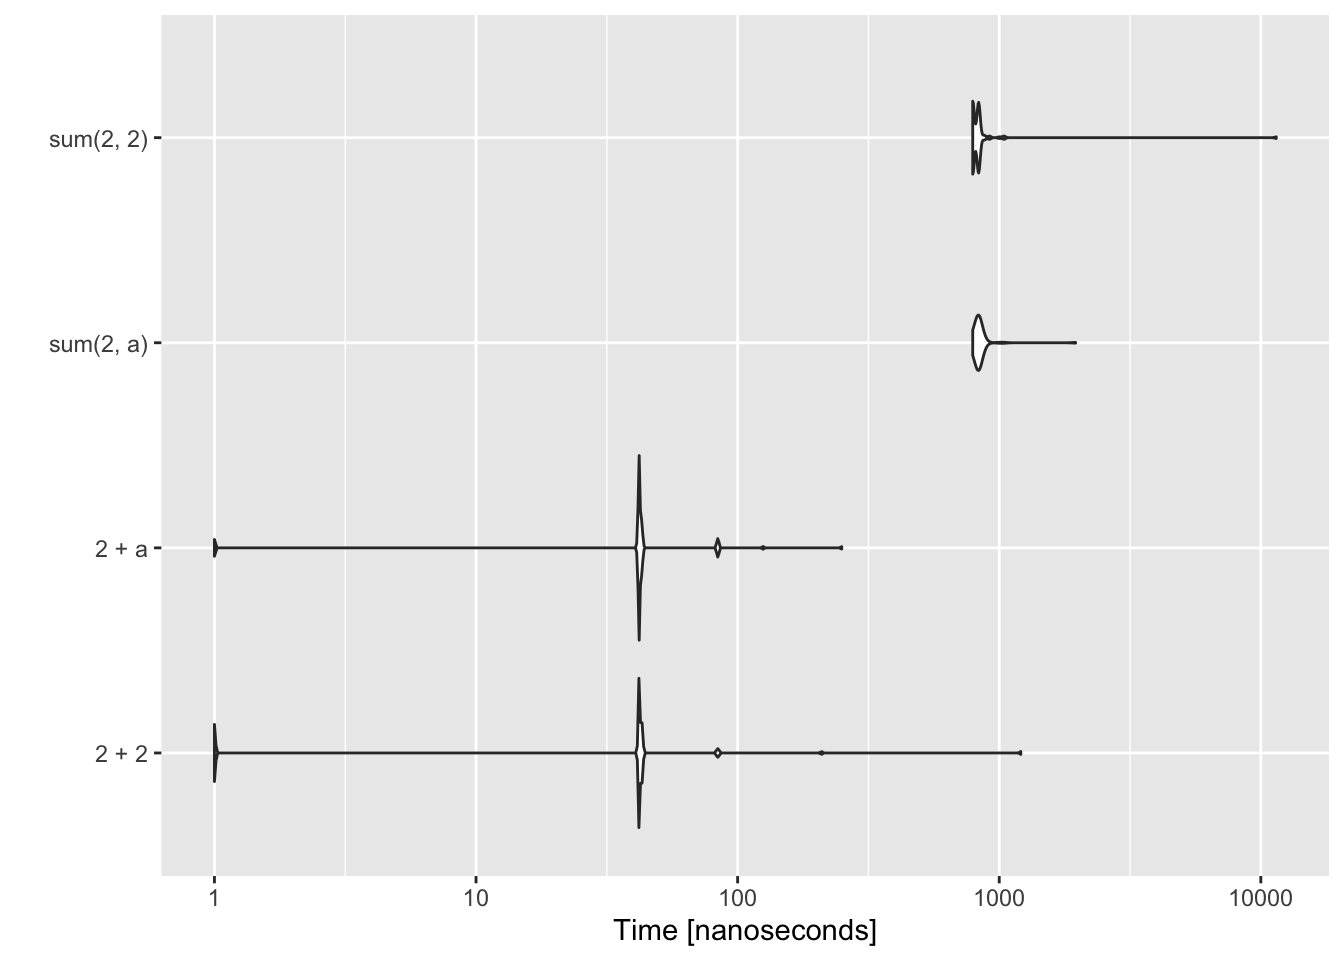
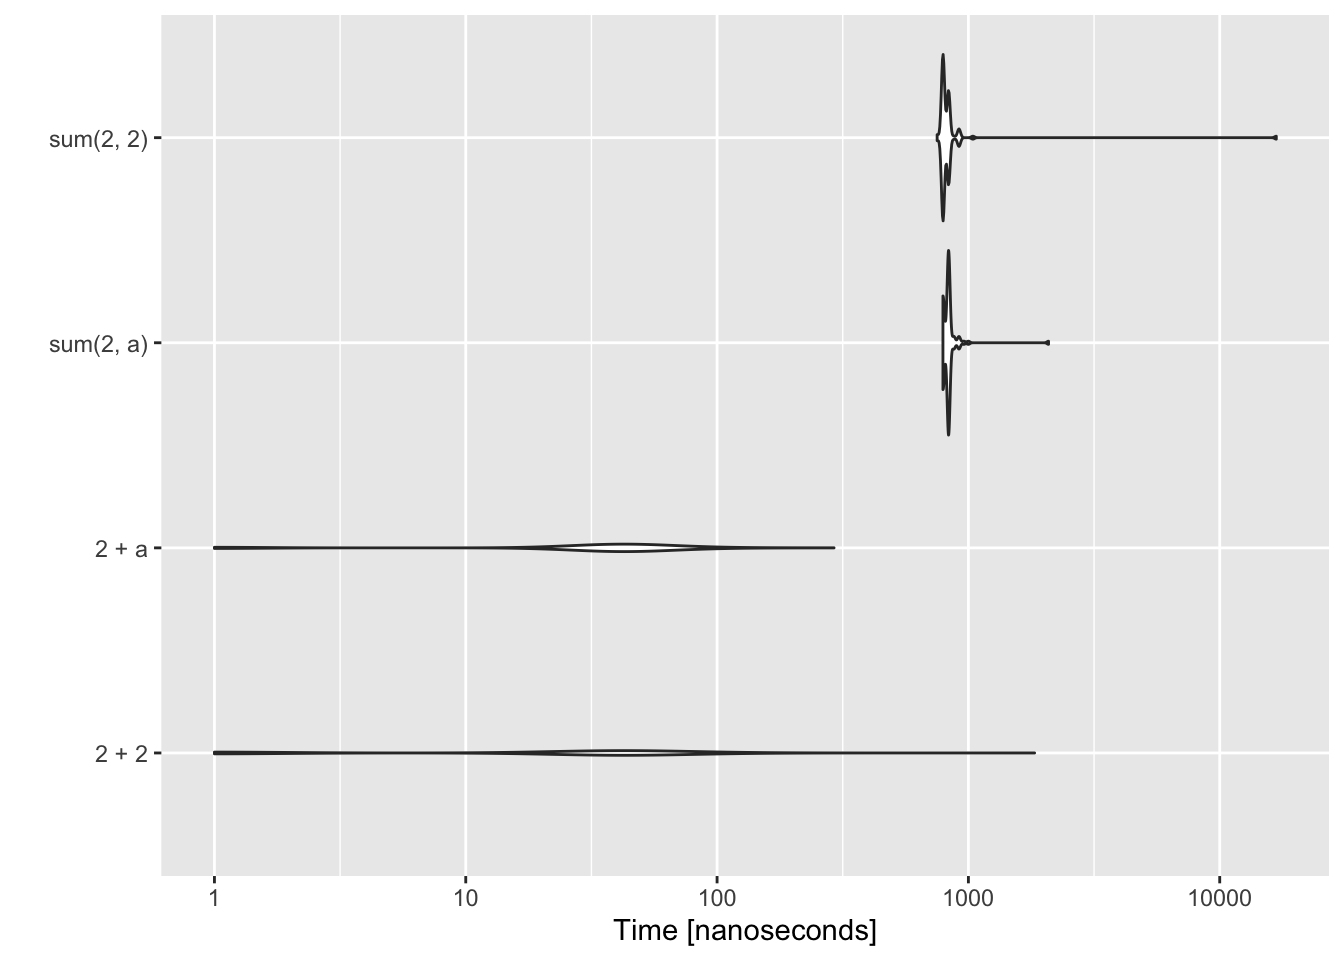
some more marss workflow

diff --git a/git-part2.html b/git-part2.html
@@ -446,10 +446,8 @@ Robust
 <ul>
 <li>How to use issues.</li>
 <li>How to use releases.</li>
+<li>A production workflow (what I do).</li>
 <li>How to use organizations—for yourself or a team.</li>
-</ul>
-<p>Getting started collaborating using Git and GitHub</p>
-<ul>
 <li>How to set things up in your shared repository in order to work as a small team.</li>
 </ul>
 </div>
@@ -482,24 +480,27 @@ Robust
 <pre><code>git switch -</code></pre>
 <p><strong>Warning <code>git checkout ...</code> will change all your time stamps.</strong></p>
 </div>
+<div id="my-production-workflows" class="section level2">
+<h2>My production workflows</h2>
+<p><a href="https://atsa-es.github.io/MARSS/">MARSS R package</a></p>
+<p>I develop on the main branch as long as I can break work into small tasks. The versions that users use are either CRAN releases or GitHub releases. I warn them that the main branch is a development branch and might be broken.</p>
+<div id="workflow-with-small-tasks" class="section level3">
+<h3>Workflow with small tasks</h3>
+<p><img src="images/marss-workflow-1.png" /></p>
+</div>
+<div id="workflow-when-i-might-break-things" class="section level3">
+<h3>Workflow when I might break things</h3>
+<p>A major re-organization or new functionality that has the potential to break things is done on a branch.</p>
+<p><img src="images/marss-workflow-2.png" /></p>
+</div>
+</div>
 <div id="organizations" class="section level2">
 <h2>Organizations</h2>
-<p>I use this to organize collections of repositories.</p>
+<p>I use this to organize collections of repositories. Example: <a href="https://github.com/eeholmes" class="uri">https://github.com/eeholmes</a></p>
 <ul>
 <li>Share access to repos across a team</li>
 <li>Have team discussions</li>
 <li>Have a organization landing page</li>
-</ul>
-</div>
-<div id="github-pages" class="section level2">
-<h2>GitHub Pages</h2>
-<p>Make a simple landing page of your repository.</p>
-</div>
-<div id="complex-examples" class="section level2">
-<h2>Complex Examples</h2>
-<ul>
-<li><p><a href="https://collegescorecard.ed.gov/">College Scorecard</a> This is not a bespoke website. It is a Jekyll site being generated from GitHub. All the data driving the College Scorescard is available on the GitHub repository maintained by the Department of Education.</p></li>
-<li><p><a href="https://nmfs-fish-tools.github.io/">NMFS Fish Tools</a> Here is an example of one of the tools: <a href="https://nmfs-fish-tools.github.io/r4MAS/index.html">r4MAS</a>. Again this is not a bespoke website. In this case, r4MASS is an R package and a tool called pkgdown was used to create this site which GitHub shows as webpage in your browser.</p></li>
 </ul>
 </div>
 <div id="pro-tip-using-github-actions" class="section level2">

diff --git a/week8-adv-packages.html b/week8-adv-packages.html
@@ -639,9 +639,9 @@ for(i in 1:10000){ b &lt;- t(a)%*%a }
 Rprof()
 summaryRprof(tmp)$by.self</code></pre>
 <pre><code>##                   self.time self.pct total.time total.pct
-## &quot;%*%&quot;                  0.54    93.10       0.54     93.10
-## &quot;lazyLoadDBfetch&quot;      0.02     3.45       0.02      3.45
-## &quot;t.default&quot;            0.02     3.45       0.02      3.45</code></pre>
+## &quot;%*%&quot;                  0.48    85.71       0.48     85.71
+## &quot;t.default&quot;            0.06    10.71       0.06     10.71
+## &quot;lazyLoadDBfetch&quot;      0.02     3.57       0.02      3.57</code></pre>
 <pre class="r"><code>Rprof(NULL) #stop profiling</code></pre>
 </div>
 <div id="profvis-package" class="section level3">
@@ -657,7 +657,7 @@ res &lt;- microbenchmark(2 + 2, 2 + a, sum(2, a), sum(2, 2))
 ggplot2::autoplot(res)</code></pre>
 <pre><code>## Coordinate system already present. Adding new coordinate system, which will replace the existing one.</code></pre>
 <pre><code>## Warning: Transformation introduced infinite values in continuous y-axis</code></pre>
-<pre><code>## Warning: Removed 14 rows containing non-finite values (stat_ydensity).</code></pre>
+<pre><code>## Warning: Removed 16 rows containing non-finite values (stat_ydensity).</code></pre>
 <p><img src="week8-adv-packages_files/figure-html/unnamed-chunk-5-1.png" width="672" /></p>
 <p>This shows an example of code using <a href="https://www.datacamp.com/community/tutorials/pipe-r-tutorial">piping</a> (<code>%&gt;%</code>) versus without. This is why I do not use piping in my simulations. It is slow though it has gotten much faster in <strong>magrittr</strong> 2.0.</p>
 <pre class="r"><code>library(magrittr)

diff --git a/git-part3.html b/git-part3.html
@@ -452,7 +452,7 @@ Robust
 </div>
 <div id="getting-rid-of-changes-you-have-made" class="section level2">
 <h2>Getting rid of changes you have made</h2>
-<p>Say you made a change and you need to get rid of that. The temptation (for me) is to jump onto the Git command line and clobber my repository with <code>reset</code> and <code>revert</code> commands. <strong>Don’t do this.</strong> Here are some strategies that will make this let prone to leaving your code a mess.</p>
+<p>Say you made a change and you need to get rid of that. The temptation (for me) is to jump onto the Git command line and clobber my repository with <code>reset</code> and <code>revert</code> commands. <strong>Don’t do this.</strong> Here are some strategies that are less prone to leaving your code a mess.</p>
 <div id="have-you-commited-the-changes-yet" class="section level3">
 <h3>Have you commited the changes yet?</h3>
 <p><strong>No?</strong> Easy click on the file in GitHub Desktop, right click and click ‘Discard Changes…’. Note this will take things all the way back to your last commit!! If you have been making a bunch of changes without committing those, then you are out of luck.</p>

diff --git a/git-part1.html b/git-part1.html
@@ -466,7 +466,7 @@ Robust
 <p>We’ll do this</p>
 <p><img src="images/git-linear-flow-2.png" /></p>
 <p>Not this, i.e. what you would see if you Google “Git”.</p>
-<p><img src="images/git-online.png" />{75%}</p>
+<p><img src="images/git-online.png" width="400" /></p>
 </div>
 <div id="the-3-skills" class="section level1">
 <h1>The 3 Skills</h1>
@@ -478,6 +478,7 @@ Robust
 <li><p>Skill 3: Commit local changes and push GitHub</p></li>
 <li><p>Skill 1b: How to clone someone else’s GitHub repository</p></li>
 </ul>
+<p><img src="images/git-repo-structure.png" width="200" /></p>
 <div id="skill-1-create-a-blank-repo-on-github" class="section level2">
 <h2>Skill 1: Create a blank repo on GitHub</h2>
 <ol style="list-style-type: decimal">
